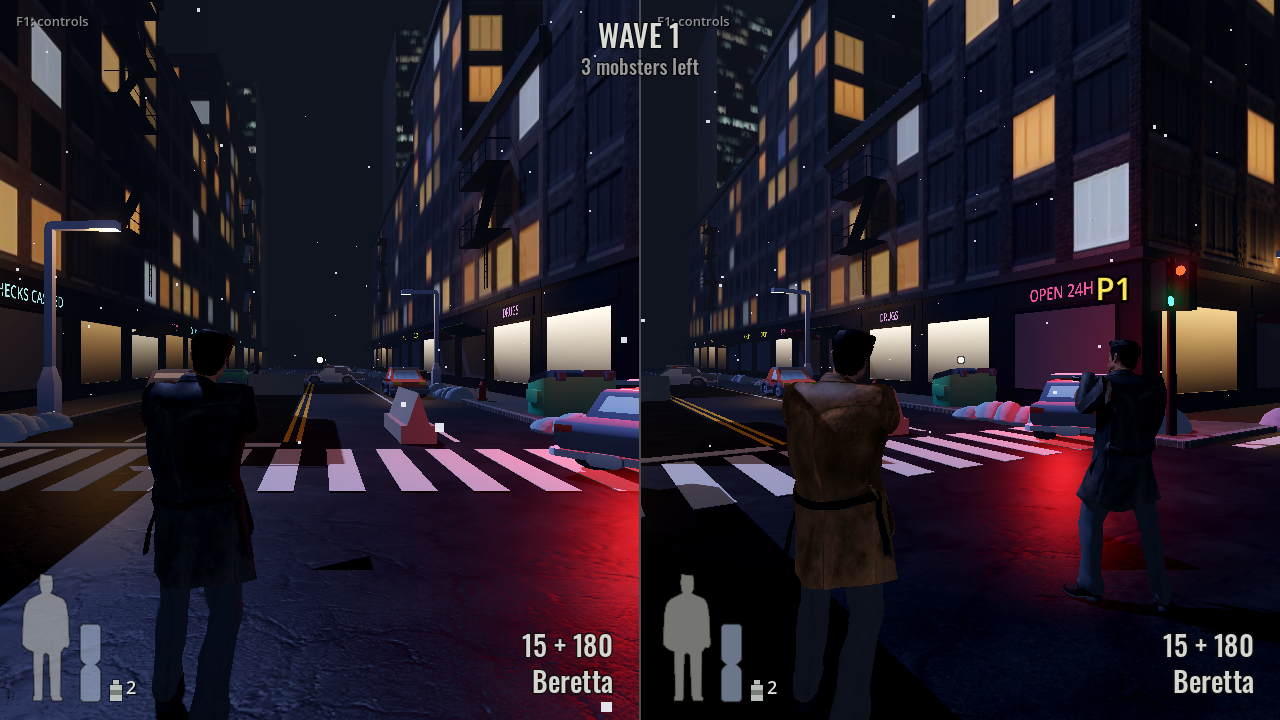
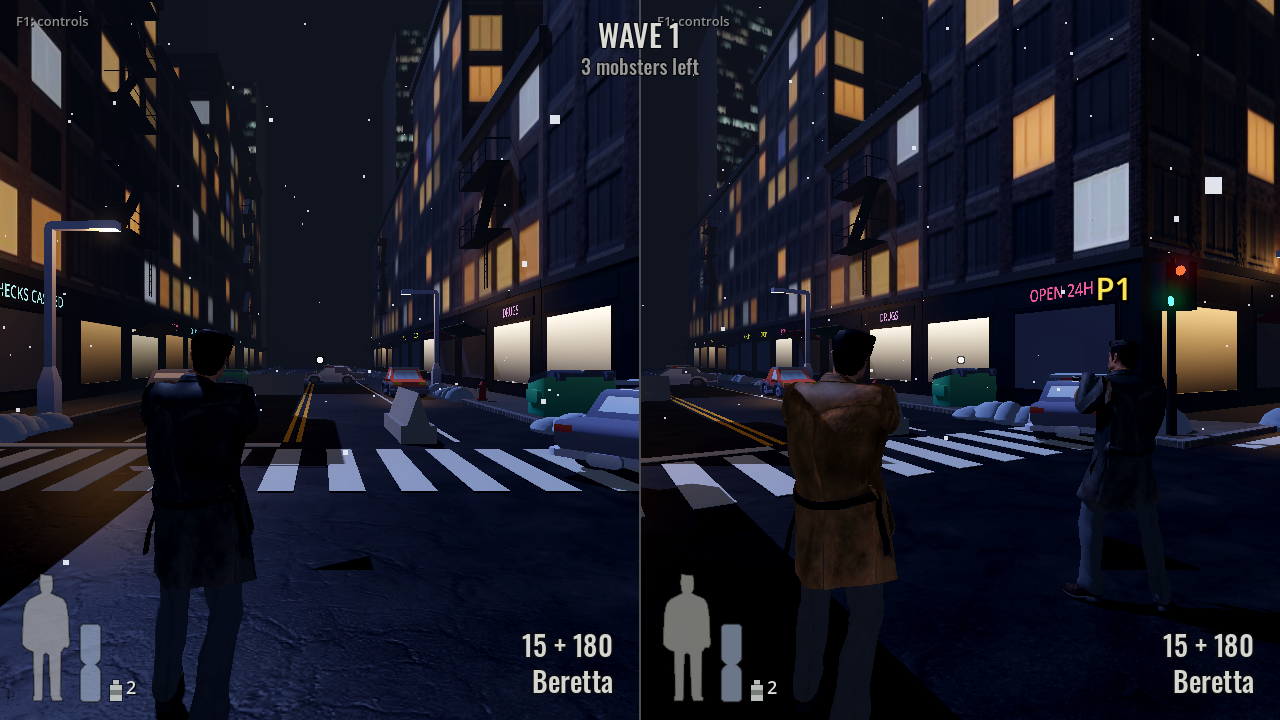
Training range: practice targets or 1 to 7 mobsters
The title screen's training item picks what stands at the far end of the
range (left / right): the red practice targets, or how many mobsters who
shoot back. The title is a bit smaller so the longer menu fits.

Claude-Session: https://claude.ai/code/session_01HDtqNda4sNbUo1YKHwNmos

diff --git a/README.md b/README.md
@@ -48,8 +48,8 @@ for Windows, Linux or macOS, see [Exporting builds](#exporting-builds-windows-li
   parked cars, police cars with flashing lights, street lamps, dumpsters and
   concrete barriers. Built in code from Kenney's car and road kits and
   ambientCG textures.
-- **Title screen** with music, difficulty selection, a training range (mobsters
-  that shoot back and keep coming back), the controls and a sound on/off option (also in the
+- **Title screen** with music, difficulty selection, a training range (red
+  practice targets, or mobsters who shoot back), the controls and a sound on/off option (also in the
   pause menu, remembered between visits); a pause menu and a game over screen.
 - **Animated Max Payne** model with Max Payne 3 style upper/lower body
   blending: the legs run in the movement direction (forwards or backwards)
@@ -95,9 +95,10 @@ for Windows, Linux or macOS, see [Exporting builds](#exporting-builds-windows-li
   after the closest player, a fallen player gets back up when the next wave
   starts, and the game ends when both are down. Bullet time and adrenaline
   are shared.
-- **Training range**: mobsters at the far end shoot back at the difficulty
-  picked on the title screen, and each one comes back at its spot 5 seconds
-  after it dies. If Max dies, the range starts over.
+- **Training range**: pick on the title screen between the red practice
+  targets and 1 to 7 mobsters who shoot back at the chosen difficulty. Each
+  one comes back at its spot after it dies (targets after 3 seconds,
+  mobsters after 5). If Max dies, the range starts over.
 
 ## Controls
 
